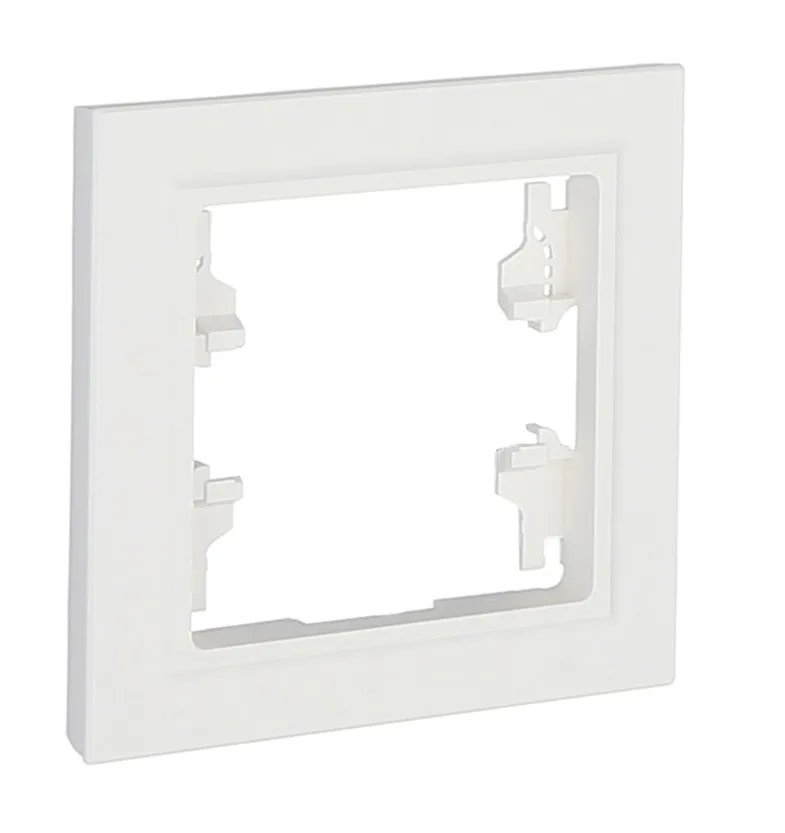
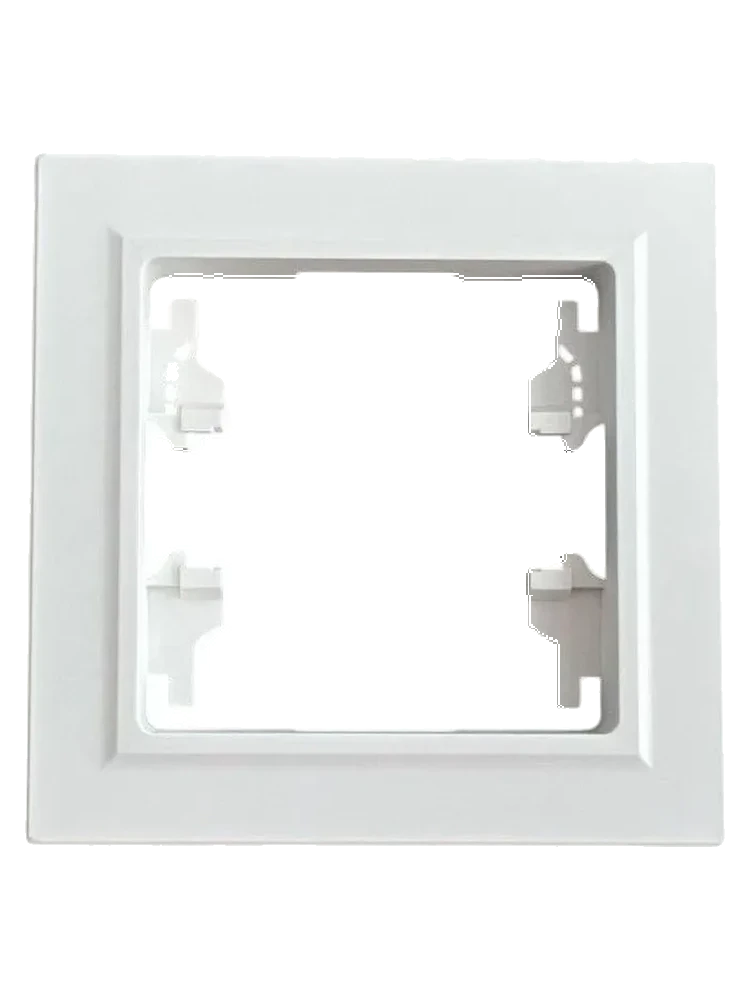
fix: вертикальные рамки прозрачные внутри + единый размер карточек + фильтр без тусклости
ПРОБЛЕМА 1 — рамки с белым фоном внутри окошек:
P50-2VW, P50-2VB, P50-3VW, P50-3VB (AURA вертикальные) и
U1A-028, U1A-029-2, U1A-031-2 (UNO рамки) имели изолированный
белый фон ВНУТРИ окошек рамки — поскольку рамка непрерывная по
периметру, первый flood снаружи до них не доходил.

scripts/remove_inner_white.py:
- Идёт по 7×7 grid seed-точек внутри изображения
- Для каждой почти-белой точки запускает flood fill
- Все собранные пиксели делает прозрачными
- Защита: если flood собирает >70% видимых пикселей — отказ
  (это значит зацепили часть товара, не окно)

Результат: 7 рамок теперь полностью прозрачны и снаружи и внутри
окошек. Видна только сама рамка с креплениями.

ПРОБЛЕМА 2 — товары разного размера в карточках:
В .prod-card, .cat-related, .ser-lineup, .ser-related, .prod-related
у img было max-width/max-height: 100% + object-fit: contain. Узкие
1-кл выключатели занимали ~80% высоты, широкие 3-кл — все 100%
ширины. Визуально читались как товары разного размера.

ИСПРАВЛЕНО: фиксированный 75%×75% bounding box для img во всех
6 «сеточных» карточках. object-fit: contain центрирует по
пропорциям. Теперь все товары визуально одинакового размера.
hero-картинки (.cat-hero, .ser-hero, .prod-hero) не тронуты —
там должно быть крупно.

ПРОБЛЕМА 3 — тусклость карточек после фильтра по цвету:
Когда clicker меняет фильтр «Все/Белые/Чёрные», скрытые-стало-
видимыми карточки оставались с --reveal-progress: 0 → opacity 0.45
[…]

Changed region(s): [[0.0307, 0.0624, 0.9813, 0.9364]]

diff --git a/scripts/remove_inner_white.py b/scripts/remove_inner_white.py
@@ -1,0 +1,127 @@
+"""
+Удаляет ВНУТРЕННИЕ белые «окна» в рамках (P50-*V*, U1A-029-2 и т.п.) после
+первого прохода remove_product_bg.py. Работает там, где внешний фон уже
+прозрачный, но внутри рамки изолированный белый прямоугольник остался.
+
+Алгоритм:
+1. Идём по 7x7 grid точкам внутри изображения
+2. Для каждой почти-белой непрозрачной точки запускаем flood fill
+3. Если flood собирает много связанных пикселей — это белая «дыра» окна
+4. Делаем их прозрачными
+
+ОГРАНИЧЕНИЕ: если flood собрал > 70% видимых пикселей — отказ (значит
+зацепили часть товара, не окно). Файл не меняется.
+
+Запуск: python scripts/remove_inner_white.py [pattern]
+По умолчанию обрабатывает P50-*V*.webp и U1A-{028,029-2,031-2}.webp.
+"""
+from pathlib import Path
+from PIL import Image
+import shutil
+import sys
+
+ROOT = Path(__file__).resolve().parent.parent
+PRODUCTS_DIR = ROOT / "public" / "img" / "products"
+BACKUP_DIR = ROOT / "scripts" / "inner_white_backup"
+BACKUP_DIR.mkdir(parents=True, exist_ok=True)
+
+WHITE_TOL = 10  # почти-белый: r,g,b >= 255-tol
+GRID = 7        # 7x7 сетка seed-точек
+SAFETY_LIMIT = 0.7  # если flood съел >70% пикселей — отказ
+
+
+def is_almost_white(px):
+    return px[3] >= 250 and all(c >= 255 - WHITE_TOL for c in px[:3])
+
+
+def flood_white(pixels, w, h, sx, sy, visited):
+    """Flood fill от (sx, sy) по почти-белым непрозрачным пикселям.
+    Возвращает список координат собранных пикселей."""
+    collected = []
+    stack = [(sx, sy)]
+    while stack:
+        x, y = stack.pop()
+        if x < 0 or y < 0 or x >= w or y >= h:
+            continue
+        idx = y * w + x
+        if visited[idx]:
+            continue
+        visited[idx] = 1
+        if not is_almost_white(pixels[x, y]):
+            continue
+        collected.append((x, y))
+        stack.append((x + 1, y))
+        stack.append((x - 1, y))
+        stack.append((x, y + 1))
+        stack.append((x, y - 1))
+    return collected
+
+
+def process(path):
+    img = Image.open(path).convert("RGBA")
+    w, h = img.size
+    pixels = img.load()
+    visible_count = sum(
+        1 for y in range(0, h, 4) for x in range(0, w, 4)
+        if pixels[x, y][3] > 0
+    )
+    if visible_count == 0:
+        return "empty"
+
+    # Бэкап
+    backup = BACKUP_DIR / path.name
+    if not backup.exists():
+        shutil.copy2(path, backup)
+
+    visited = bytearray(w * h)
+    to_clear = []  # все пиксели которые сделать прозрачными
+
+    # 7x7 сетка seed-точек, отступ от краёв 10%
+    margin_x = w // 10
+    margin_y = h // 10
+    for gy in range(GRID):
+        for gx in range(GRID):
+            x = margin_x + (w - 2 * margin_x) * gx // (GRID - 1)
+            y = margin_y + (h - 2 * margin_y) * gy // (GRID - 1)
+            if visited[y * w + x]:
+                continue
+            if not is_almost_white(pixels[x, y]):
+                continue
+            collected = flood_white(pixels, w, h, x, y, visited)
+            # Слишком большой flood = риск задеть товар, пропускаем
+            if len(collected) > visible_count * SAFETY_LIMIT * 16:
+                continue
+            to_clear.extend(collected)
+
+    # Очищаем
+    for x, y in to_clear:
+        r, g, b, a = pixels[x, y]
+        pixels[x, y] = (r, g, b, 0)
+
+    img.save(path, "WEBP", quality=90, method=6)
+    return f"cleared {len(to_clear)} px"
+
+
+def main():
+    if len(sys.argv) > 1:
+        targets = list(PRODUCTS_DIR.glob(sys.argv[1]))
+    else:
+        targets = []
+        for pat in ["P50-*V*.webp", "U1A-028.webp", "U1A-029-2.webp", "U1A-031-2.webp"]:
+            targets.extend(PRODUCTS_DIR.glob(pat))
+
+    if not targets:
+        print("Файлы не найдены")
+        return
+    print(f"Обработка {len(targets)} файлов...\n")
+    for path in sorted(targets):
+        try:
+            res = process(path)
+            print(f"OK {path.name}: {res}")
+        except Exception as e:
+            print(f"ERR {path.name}: {e}")
+    print(f"\nБэкапы: {BACKUP_DIR}")
+
+
+if __name__ == "__main__":
+    main()
